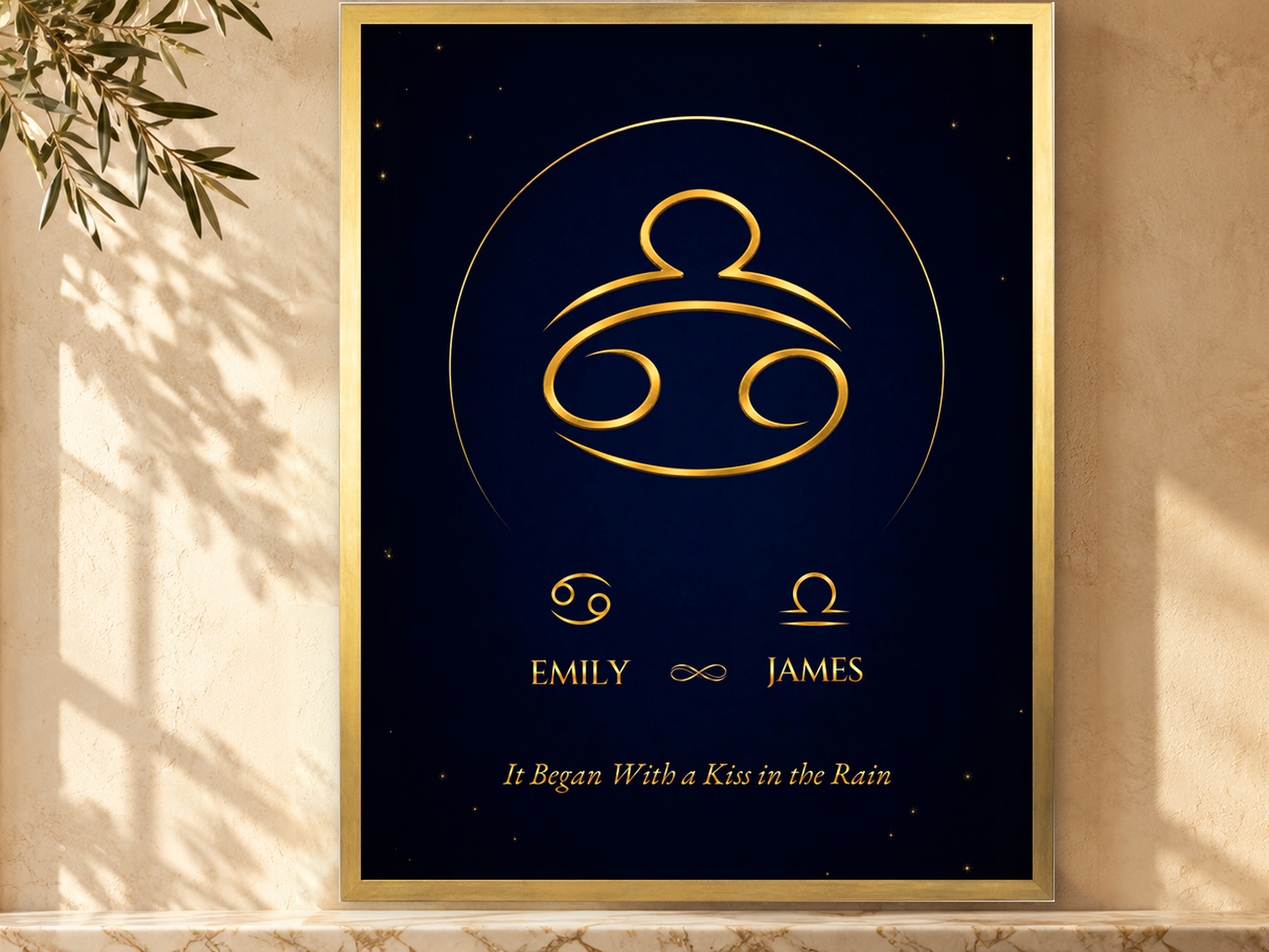
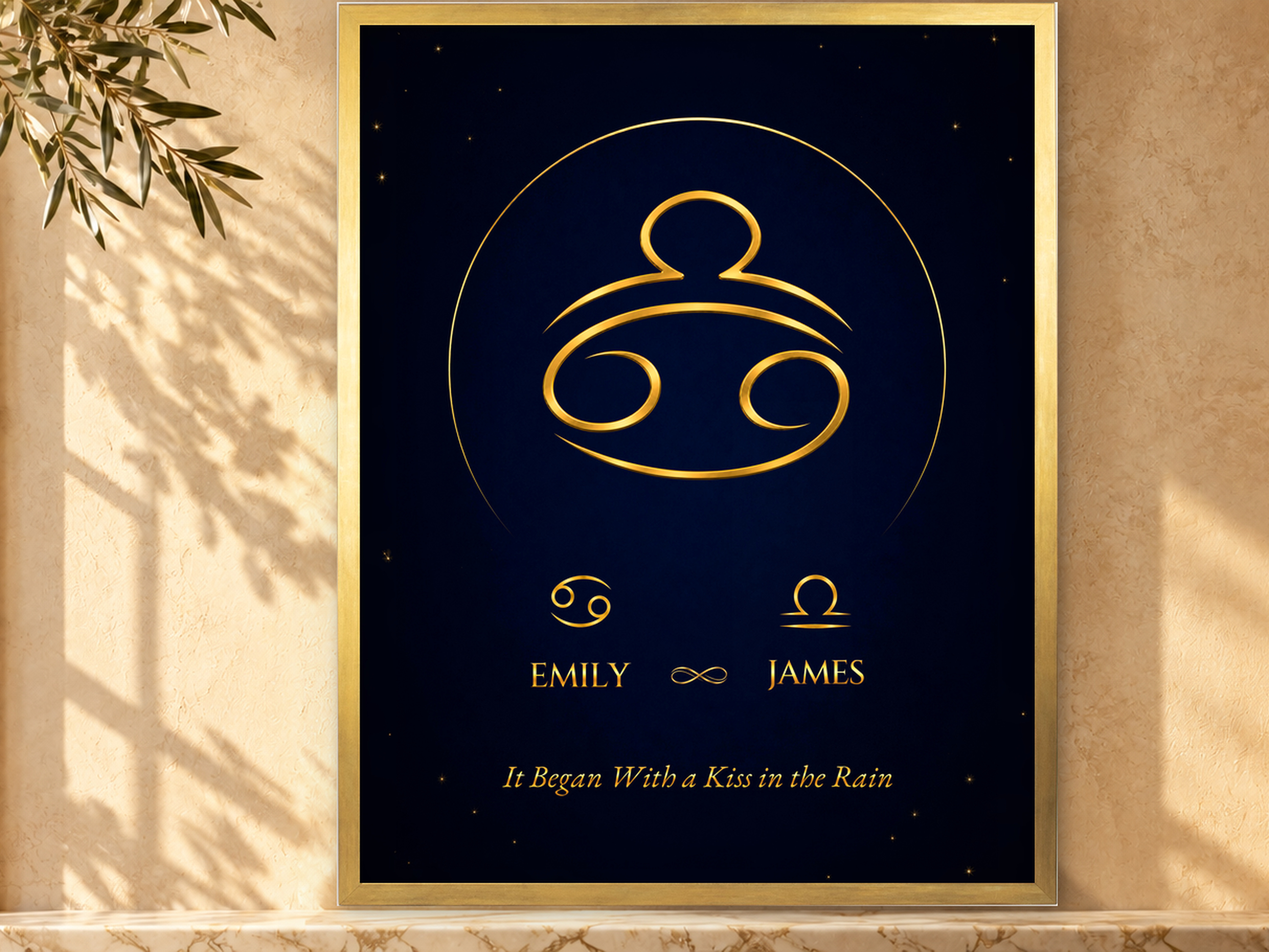
kapak v6: ChatGPT makyajli sahne + gercek poster/cerceve (temiz mod)
kapak_v5_kur'a 'temiz' modu eklendi (dolgu atlanir). 01_kapak guncel.

Claude-Session: https://claude.ai/code/session_01FAzAuMeV41NHogxqPMeqMd

diff --git a/scripts/pod/kapak_v5_kur.py b/scripts/pod/kapak_v5_kur.py
@@ -19,6 +19,7 @@ SAHNE, BASKI, AGCH, CIK = sys.argv[1:5]
 G = Image.open(SAHNE).convert('RGB')
 # bos alan kutusu (ince altin cizgi dahil) argumanla; varsayilan 2. sahne olcumu
 BX0, BY0, BX1, TABAN = (int(v) for v in sys.argv[5:9]) if len(sys.argv) > 8 else (470, 2, 1262, 878)
+TEMIZ = len(sys.argv) > 9 and sys.argv[9] == 'temiz'   # sahnede bos beyaz alan yok, dolgu atlanir
 CX = (BX0 + BX1) // 2
 
 # cerceve olculeri: yukseklik taban-2, oran 11:14, yuz F = PW x 20/599.6
@@ -37,10 +38,14 @@ FX, FY = CX - fr.width // 2, TABAN - fr.height
 # bos alanin cerceve disinda kalan seritleri OpenCV Telea inpaint ile duvara tamamlanir
 # (sahne_yazi_sil yontemi; ayna/kaydirma yamalari dikis birakiyordu, Serdar 28 Eyl)
 import cv2
-ga = np.asarray(G).copy()
-mask = np.zeros(ga.shape[:2], np.uint8)
-mask[max(BY0 - 3, 0):TABAN + 3, BX0 - 3:BX1 + 3] = 255   # tum bos alan; delik yok (parlak icten beslenmesin)
-ga = cv2.inpaint(ga, mask, 12, cv2.INPAINT_TELEA)
+if TEMIZ:
+    ga = np.asarray(G).copy()
+    mask = np.zeros(ga.shape[:2], np.uint8)
+else:
+    ga = np.asarray(G).copy()
+if not TEMIZ:
+    mask[max(BY0 - 3, 0):TABAN + 3, BX0 - 3:BX1 + 3] = 255   # tum bos alan; delik yok
+    ga = cv2.inpaint(ga, mask, 12, cv2.INPAINT_TELEA)
 # inpaint duz kalir; gercek duvardan yuksek frekans doku eklenir (Serdar 28 Eyl: bulanik bant)
 H_, W_ = ga.shape[:2]
 def hp_doku(kutu):
